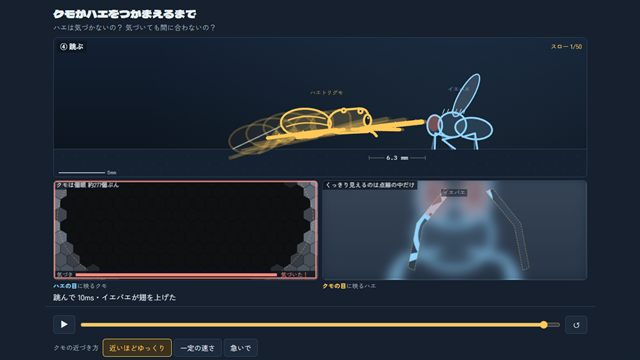
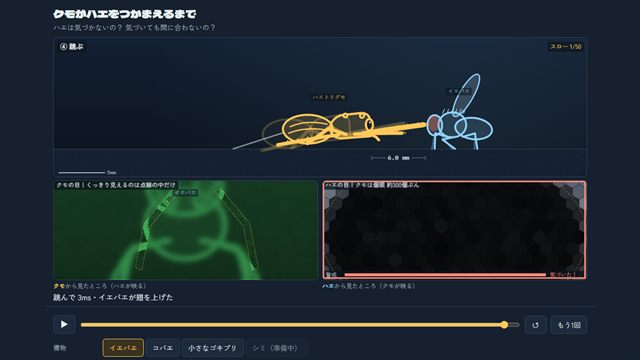
v006-trial spider-hunt: 踏み切り中も体を動かし、変化の始まりを獲物でそろえる。つかまえる確率は不確かさをふって400回、再生は1回の例（最初はつかまえた例・もう1回）。クモの目の数は別の種と明記、ゴキブリは幼虫の模様（批判役2回目）

diff --git a/spider-hunt/js/model.js b/spider-hunt/js/model.js
@@ -17,9 +17,24 @@ const DATA = {
     reach: 2,          // 跳ぶとき前脚を斜め前へ広げる（Dill 1975）。体の前のはしより前に届く長さ（目安）
     stride: 3,         // 歩幅（目安。体長の約1/3）
   },
-  // 跳躍。Phidippus regius（15mm）。Nabawy ほか 2018, Sci. Rep. 8:7142（2体長の跳躍の値）
-  jump: { v: 0.52 * 1000, prep: 0.0316 },
+  // 跳躍。Phidippus regius（15mm）。Nabawy ほか 2018, Sci. Rep. 8:7142（2体長の跳躍の値 0.52m/s）。
+  // 踏み切り＝脚で台を押して体を速めているあいだ（体は前へ進む）。押す距離（stroke）は論文に数がなく、速さと時間からの逆算（8〜9mm、
+  // P. regius 15mm）を体の大きさ 9mm に合わせて縮めた 5mm（推定）。一様に速めるとして、踏み切りの時間 = 2×stroke/v
+  jump: { v: 0.52 * 1000, stroke: 5 },
 };
+DATA.jump.prep = 2 * DATA.jump.stroke / DATA.jump.v;
+// 1回ごとにふる不確かさ。跳ぶ速さ・押す距離・前脚の届く長さは目安の幅、しきい値・遅れは論文の平均±SD
+const UNC = { v: [420, 620], stroke: [3, 7], reach: [1, 3] };
+function sampleParams(seed) {
+  let x = (seed * 2654435761) >>> 0 || 1;
+  const U = () => { x ^= x << 13; x >>>= 0; x ^= x >>> 17; x ^= x << 5; x >>>= 0; return (x % 1000003) / 1000003; };
+  const G = () => { const u = Math.max(1e-9, U()), v = U(); return Math.sqrt(-2 * Math.log(u)) * Math.cos(2 * Math.PI * v); };
+  const L = ([a, b]) => a + (b - a) * U();
+  const v = L(UNC.v), stroke = L(UNC.stroke);
+  return { v, stroke, tp: 2 * stroke / v, reach: L(UNC.reach),
+    wrDeg: 49 + 4 * G(), toDeg: 54 + 5 * G(), dly: Math.max(0, 0.006 + 0.011 * G()), lat: Math.max(0.015, 0.025 + 0.002 * G()),
+    latW: L([0.011, 0.058]), run: L([0.050, 0.075]) };
+}
 
 // 獲物（ハエトリグモが食べるもの）。足すときはここに1つ足し、spider-draw.js の drawPrey と、
 // 逃げのきっかけ（kind: 'vision' 目で見て／'wind' 空気の流れで）を決める。
@@ -30,7 +45,7 @@ const FLY_ESCAPE = {
   toDeg: 54,       // 飛び立つ見かけの大きさ（SD 5°）
   toDelay: 0.006,  // 54° から飛び立つ（脚が離れる）までの遅れ（SD 11ms）
   toSD: 0.011,
-  minLat: 0.025,   // いちばん速い反応: 刺激が始まってから飛び立つまで 25ms（SD 2ms。明かりを消したとき。同じ Fotowat 2009）
+  minLat: 0.025,   // いちばん速い反応: 刺激が始まってから飛び立つまで 25ms（SD 2ms）。明かりを消したときの値で、ふくらむ刺激でも同じとしたのは推定（同じ Fotowat 2009）
   minSD: 0.002,
   lvMin: 0.005, lvMax: 0.080, // 測った近づき方の範囲（l/|v| = 5〜80ms）
   rateTh: 0.3,     // ふくらむ速さのしきい値（Dill 1975 図4 の仮定。ハエで測った数ではない）
@@ -85,12 +100,12 @@ function stalkV(P, D) {
 }
 
 // 跳躍の放物線: 速さ v で、距離 R に届く低いほうの角度
-function jumpAngle(R) {
-  const g = 9810, s = g * R / (DATA.jump.v * DATA.jump.v);
+function jumpAngle(R, v = DATA.jump.v) {
+  const g = 9810, s = g * R / (v * v);
   return s >= 1 ? Math.PI / 4 : 0.5 * Math.asin(s);
 }
 
-function newState(P) {
+function newState(P, seed = 1) {
   const D0 = prey(P).len / 2 / Math.tan(DATA.spider.orientDeg / 2 * Math.PI / 180); // 獲物が 5.5° に見える距離（イエバエで約 73mm）
   return {
     t: 0, D: D0, D0, V: 0, h: 0,      // h: 跳んでいるときの高さ
@@ -99,6 +114,7 @@ function newState(P) {
     jump: null,
     ev: {},                           // できごとの時刻: stalk, pounce, contact, wr, to, toPlan（飛び立つ予定）, size49, size54, rate, wind
     th: 0, rate: 0, wind: 0, alert: 0, S: DATA.spider.S, lv: 0, outside: false,
+    seed, prm: sampleParams(seed),    // この1回の数
   };
 }
 
@@ -116,13 +132,16 @@ function step(st, P, dt) {
       st.V = stalkV(P, st.D);
       st.D -= st.V * dt;
       const pd = prey(P).pounceD;
-      if (st.D <= pd) { st.D = pd; st.sp = 'prep'; st.spT = 0; ev.pounce = st.t; st.V = 0; }
+      if (st.D <= pd) { st.D = pd; st.Dp = pd; st.sp = 'prep'; st.spT = 0; ev.pounce = st.t; st.V = 0; }
     }
   } else if (st.sp === 'prep') {
-    st.V = 0; st.spT += dt;
-    if (st.spT >= DATA.jump.prep) {
-      const a = jumpAngle(st.D);
-      st.jump = { a, R: st.D, vx: DATA.jump.v * Math.cos(a), vy: DATA.jump.v * Math.sin(a), t0: st.t, D0: st.D };
+    // 踏み切り: 脚で押して一様に速める（体は前へ進む）
+    const J = st.prm, acc = J.v * J.v / (2 * J.stroke);
+    st.spT += dt; const tau = Math.min(st.spT, J.tp);
+    st.D = st.Dp - 0.5 * acc * tau * tau; st.V = acc * tau;
+    if (st.spT >= J.tp) {
+      const a = jumpAngle(st.D, J.v);
+      st.jump = { a, R: st.D, vx: J.v * Math.cos(a), vy: J.v * Math.sin(a), t0: st.t, D0: st.D };
       st.sp = 'flight';
     }
   } else if (st.sp === 'flight') {
@@ -130,7 +149,7 @@ function step(st, P, dt) {
     st.V = j.vx;
     st.D = Math.max(0, j.D0 - j.vx * tau);
     st.h = Math.max(0, j.vy * tau - 0.5 * 9810 * tau * tau);
-    if (ev.reach == null && st.D <= sd.reach) ev.reach = st.t;                // 前脚が獲物にとどく
+    if (ev.reach == null && st.D <= st.prm.reach) ev.reach = st.t;                // 前脚が獲物にとどく
     if (st.D <= 0) { st.sp = 'contact'; st.V = 0; st.h = 0; ev.contact = st.t; }
   } else { st.V = 0; }
 
@@ -148,26 +167,26 @@ function step(st, P, dt) {
   const deg = st.th * 180 / Math.PI;
   if (es.kind === 'vision') {
     // 2つのモデルの「しきい値をこえた時刻」は、選んでいないほうも記録する
-    if (ev.size49 == null && deg >= es.wrDeg) ev.size49 = st.t;
-    if (ev.size54 == null && deg >= es.toDeg) { ev.size54 = st.t; ev.lv54 = st.lv; }
+    if (ev.size49 == null && deg >= st.prm.wrDeg) ev.size49 = st.t;
+    if (ev.size54 == null && deg >= st.prm.toDeg) { ev.size54 = st.t; ev.lv54 = st.lv; }
     if (ev.rate == null && st.rate >= es.rateTh) { ev.rate = st.t; ev.lvRate = st.lv; }
-    st.alert = P.model === 'size' ? deg / es.toDeg : st.rate / es.rateTh;   // 警戒度（しきい値で 1）
+    st.alert = P.model === 'size' ? deg / st.prm.toDeg : st.rate / es.rateTh;   // 警戒度（しきい値で 1）
     const trig = P.model === 'size' ? ev.size54 : ev.rate, wr = P.model === 'size' ? ev.size49 : ev.rate;
     if (wr != null && ev.wr == null && st.sp !== 'contact') { ev.wr = st.t; }
     if (trig != null && ev.toPlan == null) {
       // 体が反応できるいちばん早い時刻: 急な変化が始まった時刻（跳んでいるあいだに気づいたなら跳び始め）＋ 25ms
-      const onset = st.jump && trig >= st.jump.t0 ? st.jump.t0 : trig;
-      const fit = trig + es.toDelay, floor = onset + es.minLat;
-      ev.toPlan = Math.max(fit, floor); ev.floorBound = floor >= fit;
+      const onset = ev.pounce != null && trig >= ev.pounce ? ev.pounce : trig;   // 跳びはじめ（踏み切りの始まり）にそろえる
+      const fit = trig + st.prm.dly, floor = onset + st.prm.lat;
+      ev.toPlan = Math.max(fit, floor); ev.floorBound = floor >= fit; ev.trig = trig;
     }
   } else {
     if (ev.wind == null && st.acc >= es.accTh) ev.wind = st.t;
     st.alert = Math.min(2, st.acc / es.accTh);
-    if (ev.wind != null && ev.toPlan == null) { ev.wrPlan = ev.wind + es.latency; ev.toPlan = ev.wrPlan + es.run; }
+    if (ev.wind != null && ev.toPlan == null) { ev.trig = ev.wind; ev.wrPlan = ev.wind + st.prm.latW; ev.toPlan = ev.wrPlan + st.prm.run; }
     if (ev.wrPlan != null && ev.wr == null && st.t >= ev.wrPlan && st.sp !== 'contact') ev.wr = st.t;   // 体の向きを変えはじめる
   }
   // 獲物のふるまい（とどかれたあとは動かない）
-  if (st.fl !== 'air' && st.sp !== 'contact') {
+  if (st.fl !== 'air' && st.sp !== 'contact' && ev.reach == null) {
     if (ev.wr != null && st.fl === 'rest') st.fl = 'wing';
     if (ev.toPlan != null && st.t >= ev.toPlan) { st.fl = 'air'; ev.to = st.t; }
   }
@@ -181,30 +200,57 @@ function done(st) {
   return false;
 }
 
-// 正規分布の累積（つかまえる確率に使う）
+// 正規分布の累積（verify で使う）
 function phi(x) { const t = 1 / (1 + 0.3275911 * Math.abs(x) / Math.SQRT2), y = 1 - (((((1.061405429 * t - 1.453152027) * t) + 1.421413741) * t - 0.284496736) * t + 0.254829592) * t * Math.exp(-x * x / 2); return x >= 0 ? (1 + y) / 2 : (1 - y) / 2; }
-// 結果: p＝つかまえる確率（獲物が動く時刻のばらつき SD から。目安）。k: 'caught'（p ≥ 0.8）／'escaped'（p ≤ 0.2）／'close'／'early'（跳ぶ前に逃げた）
-// m＝前脚がとどく時刻 − 獲物が逃げる予定の時刻（正なら獲物が先）。逃げる時刻がいちばん速い反応で決まったときは、そのばらつき（2ms）を使う
-function verdict(st, P) {
-  const ev = st.ev, es = prey(P || {}).escape, sd = ev.floorBound ? es.minSD : es.toSD;
-  if (ev.to != null && ev.pounce == null) return { k: 'early', m: null, p: 0 };
-  if (ev.contact != null) {
-    if (ev.toPlan == null) return { k: 'caught', m: null, p: 1 };
-    const m = (ev.reach != null ? ev.reach : ev.contact) - ev.toPlan, p = phi(-m / sd);
-    return { k: p >= 0.8 ? 'caught' : p <= 0.2 ? 'escaped' : 'close', m, p };
+
+// 跳躍の勝負を、不確かな数をふって何度も計算する（N 回）。返り値は つかまえた割合 と、とどく・逃げる時刻の中央値（跳びはじめから）
+function race(P, st, N = 400) {
+  const pr = prey(P), es = pr.escape, sd = DATA.spider, ev = st.ev;
+  const pre = es.kind === 'vision' && ev.trig != null && ev.trig < ev.pounce; // 跳ぶ前にもう気づいていた
+  let caught = 0;
+  for (let n = 0; n < N; n++) {
+    const q = sampleParams(1000 + n), acc = q.v * q.v / (2 * q.stroke), Sj = P.crouch ? sd.crouchS : sd.S;
+    let tTo = Infinity, tCon = Infinity;
+    if (es.kind === 'wind') tTo = q.latW + q.run;
+    else if (pre) tTo = Math.max(ev.trig - ev.pounce + q.dly, ev.trig - ev.pounce + q.lat);
+    let trig = null;
+    for (let t = 0; t < 0.2; t += 0.0002) {
+      let D, V, S;
+      if (t < q.tp) { D = pr.pounceD - 0.5 * acc * t * t; V = acc * t; S = Sj; }
+      else { D = pr.pounceD - q.stroke - q.v * (t - q.tp); V = q.v; S = sd.S; }
+      if (D <= q.reach) { tCon = t; break; }
+      if (es.kind === 'vision' && !pre && trig == null) {
+        const hit = P.model === 'size' ? angSize(S, D) * 180 / Math.PI >= q.toDeg : angRate(S, D, V) >= es.rateTh;
+        if (hit) { trig = t; tTo = Math.max(t + q.dly, q.lat); }
+      }
+    }
+    if (tCon < tTo) caught++;
   }
-  if (ev.to != null && st.sp === 'stop') return { k: 'escaped', m: null, p: 0 };
-  return null;
+  return { p: caught / N };
+}
+
+// 結果: k＝この1回の結果（'caught'／'escaped'／'early' 跳ぶ前に逃げた）、p＝何度もくり返したときに、つかまえる割合
+// m＝前脚がとどく時刻 − 逃げはじめた時刻（この1回。正なら獲物が先）
+function verdict(st, P) {
+  const ev = st.ev;
+  if (ev.to != null && ev.pounce == null) return { k: 'early', m: null, p: 0 };
+  if (ev.pounce == null) return null;
+  const key = JSON.stringify(P);
+  if (!st._race || st._raceKey !== key) { st._race = race(P, st); st._raceKey = key; }
+  const p = st._race.p;
+  if (ev.reach != null && (ev.to == null || ev.reach < ev.to)) return { k: 'caught', m: ev.to != null ? ev.reach - ev.to : null, p };
+  if (ev.to != null) return { k: 'escaped', m: ev.reach != null ? ev.reach - ev.to : null, p };
+  return { k: null, m: null, p, pending: true };
 }
 
 // 最後まで計算する（verify 用）
-function run(P, dt = 0.0005, tMax = 30) {
-  const st = newState(P);
+function run(P, dt = 0.0005, tMax = 30, seed = 1) {
+  const st = newState(P, seed);
   while (!done(st) && st.t < tMax) step(st, P, dt);
   return st;
 }
 
-const API = { DATA, PREY, prey, phi, angSize, angRate, stalkV, jumpAngle, newState, step, done, verdict, run, V26 };
+const API = { DATA, PREY, prey, phi, race, UNC, sampleParams, angSize, angRate, stalkV, jumpAngle, newState, step, done, verdict, run, V26 };
 if (typeof module !== 'undefined' && module.exports) module.exports = API;
 else root.M = API;
 })(typeof window !== 'undefined' ? window : globalThis);

diff --git a/spider-hunt/index.html b/spider-hunt/index.html
@@ -26,6 +26,7 @@
       <button id="play" aria-label="再生・一時停止">▶</button>
       <input id="tl" type="range" min="0" max="1000" value="0" aria-label="時間">
       <button id="restart" aria-label="はじめから">↺</button>
+      <button id="again" title="ばらつきの中から別の1回">もう1回</button>
     </div>
     <div class="row">
       <span class="lab">獲物</span>
@@ -63,12 +64,12 @@
   <section id="explain">
     <h2>わかること</h2>
     <ul>
-      <li><b>気づいても、間に合わない。</b>クモの跳躍は、踏み切りから約55msでとどきます。空中にいるのは約23ms。測られているいちばん速い反応でも、ハエ（ショウジョウバエ）が刺激から飛び立つまでに約25msかかります（明かりを消したとき）。跳んだ瞬間に気づいても、脚が台を離れるころには、クモの前脚がとどいています。</li>
+      <li><b>最後は、数ミリ秒の勝負。</b>クモは脚で台を押して体を速め（約20ms）、跳んで、約25〜30msで前脚がとどきます。ハエの反応は、測られているいちばん速いもので、刺激から飛び立つまで約25ms（ショウジョウバエ。明かりを消したとき）。ほぼ同じ速さです。跳ぶ速さや反応のばらつきをふって何百回も計算すると、初期設定では半分ほどつかまえます。</li>
       <li><b>忍び寄りのあいだに気づかれないことが大事。</b>クモは近いほどゆっくり進みます。「大きく見えたら」のしくみでは、跳ぶ距離でもクモはしきい値（54°）より小さく見えたままです。「急にふくらんだら」のしくみでは、一定の速さや急いで近づくと、跳ぶ前に気づかれて逃げられます（どちらも借りた数での推定。忍び寄りの遅さは測った範囲の外です）。</li>
       <li><b>見え方がまるでちがう。</b>ハエにはクモが数個の個眼のかげ。クモは前の大きな目で形まで見分けます。ただし、せまいブーメラン形の視野だけ。色は緑と紫外線の明るさだけで、赤は見えません。</li>
-      <li><b>獲物しだい。</b>コバエは小さいぶん、クモは少し遠く（約15mm）から跳びます。そのため、間に合うかどうかは五分五分になります。ゴキブリは目ではなく尾の毛で空気の動きを感じます。ただ、向きを変えてから走り出すまでが遅く（50ms以上）、間に合いません。</li>
+      <li><b>獲物しだい。</b>コバエは小さいぶん、クモは少し遠く（約15mm）から跳ぶので、逃げられやすくなります。ゴキブリは目ではなく尾の毛で空気の動きを感じます。ただ、向きを変えてから走り出すまでが遅く（50ms以上）、間に合いません。</li>
     </ul>
-    <p class="note">「つかまえる確率」は、逃げる時刻の測ったばらつきから出した目安です。暗さは「見え方」だけを変えます（暗いと反応が遅くなるかは、測った数が見つからないので入れていません。ハエトリグモは昼に狩りをするクモです）。</p>
+    <p class="note">再生は「1回の例」です（最初はつかまえた例）。「もう1回」で、ばらつきの中から別の1回になります。「つかまえる割合」は、跳ぶ速さ（0.42〜0.62m/s）・押す距離（3〜7mm）・前脚の届く長さ（1〜3mm）を目安の幅でふり、しきい値と反応の遅れを論文の平均±ばらつきでふって、400回計算した割合です。暗さは「見え方」だけを変えます（暗いと反応が遅くなるかは、測った数が見つからないので入れていません。ハエトリグモは昼に狩りをするクモです）。</p>
   </section>
 
   <details id="graphBox" open>
@@ -83,11 +84,12 @@
     <ul>
       <li>クモは獲物にまっすぐ近づきます。距離は「クモの前のはしから、獲物の頭（目）まで」。クモの前脚は体の前のはしより約2mm先までとどくとしました（目安）。</li>
       <li>ハエの逃げのしきい値と遅れは<b>ショウジョウバエ</b>の測定を借りています（イエバエの数は見つかりませんでした）。研究で使われた近づき方（l/|v| = 5〜80ms）より、忍び寄るクモはずっとゆっくりなので、そのあいだは推定です。</li>
-      <li>「つかまえた・逃げた」は、獲物が逃げはじめる時刻（飛び立つ・走り出す）と、クモの前脚がとどく時刻をくらべて決めています。逃げる時刻は「しきい値をこえて6ms後（Fotowat の式）」と「急な変化が始まってから25ms後（いちばん速い反応）」の遅いほう。飛び立ったあとの動きは見た目だけです。</li>
-      <li>ゴキブリ: 逃げのきっかけは空気の急な加速（二次資料の数）で、体を押し出す踏み切りで起きるとしました。ゆっくり一定の忍び寄りでは起きない（推定）。動き出すまで58ms、向きを変えてから走るまで50ms（Camhi ほか 1978、大きなワモンゴキブリの成虫の数を借りた）。もっと短い反応（11ms）という二次資料もありますが、それでも走り出しは間に合いません。</li>
+      <li>「つかまえた・逃げた」は、獲物が逃げはじめる時刻（飛び立つ・走り出す）と、クモの前脚がとどく時刻をくらべて決めています。逃げる時刻は「しきい値をこえて6ms後（Fotowat の式）」と「急な変化が始まってから25ms後（いちばん速い反応。明かりを消したときの数を、ふくらむ刺激にも使ったのは推定）」の遅いほう。飛び立ったあとの動きは見た目だけです。</li>
+      <li>ゴキブリ: 逃げのきっかけは空気の急な加速（二次資料の数）で、体を押し出す踏み切りで起きるとしました。ゆっくり一定の忍び寄りでは起きない（推定）。空気の動きを数えるのは獲物から20mm以内（目安）。動き出すまで58ms、向きを変えてから走るまで50ms（Camhi ほか 1978、大きなワモンゴキブリの成虫の数を借りた）。もっと短い反応（11ms）という二次資料もありますが、それでも走り出しは間に合いません。</li>
       <li>暗さ: 光の粒の数のゆらぎ（√N）で視界をざらつかせています。昼の窓辺で1回に受ける光の粒の数（ハエの個眼1万、クモの前の大きな目1千）は目安です。</li>
-      <li>跳躍の数は別の種（<i>Phidippus regius</i>）のもの。踏み切りのあいだは止まっているとしました。</li>
+      <li>跳躍の数は別の種（<i>Phidippus regius</i>）のもの。踏み切りは、脚で台を押して体を一様に速めるあいだ（体は前へ進む）。押す距離は論文の速さと時間からの逆算（8〜9mm）を体の大きさに合わせて縮めた推定（5mm）です。ハエが気づく「急な変化の始まり」は踏み切りの始まりとしました。</li>
       <li>クモの動き: 振り向く・忍び寄る・後半で体をふせる・命綱をつける・前脚を上げて後ろの脚で押す・前脚を斜め前に広げて跳ぶ、は研究の記述どおり。脚の運び・歩幅・振り向く時間・体をふせたときの大きさ（4.5mm）は目安です。進む速さはなめらかにしていて、実際のちょこちょこした止まり方は入れていません（測った数が見つからないため）。</li>
+      <li>クモの目: 前の大きな目の視野（横5°×縦20°）は別の種（<i>Metaphidippus</i>）の数、くっきり見える細かさは <i>Portia</i> などの数で、ゼブラハエトリの数ではありません。色は緑の明るさだけで表しています（紫外線は画面で表せない。緑の重みは目安）。横の目のぼけ（約1°）も目安です。</li>
       <li>2つの視界はどちらも横 60° の広さ。ハエの個眼の間隔（3°）、クモの横の目のぼけ、前の大きな目の視野を動かす速さ、部屋の模様は目安です。来る向きは見え方だけを変えます。</li>
       <li>※ 目印: 個眼のふち、名前と点線の輪郭、ブーメラン形の点線、しきい値の線、距離の線、残像は、本物には見えません。</li>
     </ul>

diff --git a/spider-hunt/js/main.js b/spider-hunt/js/main.js
@@ -6,11 +6,12 @@ window.addEventListener('error', e => window.__sphuErr.push(String(e.message)));
 const $ = id => document.getElementById(id);
 const DT = 0.0005;                  // 計算の刻み（0.5ms）
 const P = { speed: 'dill', model: 'size', crouch: true, dir: 0, fastV: 30, prey: 'housefly', lux: 300, look: 'simple' };
-const S = { st: null, hist: [], view: 0, playing: true, rate: 'auto', camR: 95, rims: true, guide: true, paused: false };
+const S = { st: null, hist: [], view: 0, playing: true, rate: 'auto', camR: 95, rims: true, guide: true, paused: false, seed: 1 };
+// 1回目は「つかまえた例」を見せる: 初期設定でつかまえる1回目の数の組（ばらつきの中の本物の1回）。2回目からは「もう1回」で別の組
 SD.setP(P);
 
 const snap = st => Object.assign({}, st, { ev: Object.assign({}, st.ev), jump: st.jump && Object.assign({}, st.jump) });
-function reset() { S.st = M.newState(P); S.hist = [snap(S.st)]; S.view = 0; S.playing = true; S.camR = 95; }
+function reset() { S.st = M.newState(P, S.seed); S.hist = [snap(S.st)]; S.view = 0; S.playing = true; S.camR = 95; }
 // とちゅうで条件を変えたら、いま見ている時刻から先を計算しなおす
 function changed() {
   S.hist.length = S.view + 1; S.st = snap(S.hist[S.view]);
@@ -44,17 +45,17 @@ function fit(c, g) {
 }
 function status(s) {
   const pr = M.prey(P), vd = M.verdict(s, P), nm = pr.short || pr.name, roach = pr.draw === 'roach';
-  const go = roach ? '走り出した' : '飛び立った', pct = vd && vd.p != null ? `<small>（つかまえる確率 約${Math.round(vd.p * 100)}%）</small>` : '';
-  if (vd && M.done(s)) {
+  const go = roach ? '走り出した' : '飛び立った', ex = S.seed === 1 ? 'この1回（つかまえた例）' : 'この1回';
+  const pct = vd && vd.p != null && vd.k !== 'early' ? `<small>　何百回くり返すと、つかまえるのは 約${Math.round(vd.p * 100)}%</small>` : '';
+  if (vd && vd.k && M.done(s)) {
     if (vd.k === 'early') return `<b class="escaped">${nm}が先に気づいて逃げた</b><small>（クモが跳ぶ前。あと ${s.D.toFixed(1)}mm）</small>`;
-    const m = vd.m != null ? Math.abs(vd.m * 1000).toFixed(0) : '';
-    if (vd.k === 'close') return `<b class="close">きわどい</b>: ${nm}が逃げはじめるのと、ほぼ同時に前脚がとどく（差 ${m}ms）${pct}`;
-    if (vd.k === 'escaped') return `<b class="escaped">逃げた</b>: クモがとどく ${m}ms 前に${go}${pct}`;
-    return `<b class="caught">つかまえた</b>${vd.m != null ? `: ${nm}が${roach ? '走り出す' : '飛び立つ'} ${m}ms 前にとどいた` : ''}${pct}`;
+    const m = vd.m != null ? Math.abs(vd.m * 1000).toFixed(0) : null;
+    if (vd.k === 'escaped') return `${ex}: <b class="escaped">逃げた</b>（前脚がとどく ${m}ms 前に${go}）${pct}`;
+    return `${ex}: <b class="caught">つかまえた</b>${m ? `（${nm}が${roach ? '走り出す' : '飛び立つ'} ${m}ms 前に前脚がとどいた）` : `（${nm}は間に合わなかった）`}${pct}`;
   }
   if (s.sp === 'turn') return `クモが${nm}を見つけた<small>（${nm}が 5.5° に見える距離 ${s.D.toFixed(0)}mm）</small>`;
   if (s.sp === 'stalk') return `${nm}は${s.fl === 'rest' ? 'まだ気づかない' : '気づいた'}<small>（クモ ${s.V.toFixed(1)}mm/s${s.outside ? '・測った範囲の外なので推定' : ''}）</small>`;
-  if (s.sp === 'prep') return `踏み切り ${(s.spT * 1000).toFixed(0)} / ${(M.DATA.jump.prep * 1000).toFixed(0)}ms` + (s.fl !== 'rest' ? `・${nm}が気づいた` : `・${nm}はまだ`);
+  if (s.sp === 'prep') return `踏み切り（脚で押して速める）${(s.spT * 1000).toFixed(0)} / ${(s.prm.tp * 1000).toFixed(0)}ms` + (s.fl !== 'rest' ? `・${nm}が気づいた` : `・${nm}はまだ`);
   if (s.sp === 'flight') return `跳んで ${((s.t - s.jump.t0) * 1000).toFixed(0)}ms` + (s.fl === 'air' ? `・${nm}は${go}` : s.fl === 'wing' ? `・${nm}が${roach ? '向きを変えた' : '翅を上げた'}` : `・${nm}はまだ`);
   if (s.sp === 'contact') return 'クモがとどいた' + (s.fl === 'air' ? `<small>（${nm}はもう${go}）</small>` : '');
   if (s.sp === 'stop') return `${nm}が${go}ので、クモは止まった`;
@@ -103,6 +104,7 @@ $('rims').addEventListener('change', e => { S.rims = e.target.checked; });
 $('guide').addEventListener('change', e => { S.guide = e.target.checked; });
 $('play').addEventListener('click', () => { if (!S.playing && M.done(S.hist[S.view]) && S.view === S.hist.length - 1) reset(); else S.playing = !S.playing; });
 $('restart').addEventListener('click', reset);
+$('again').addEventListener('click', () => { S.seed = 1 + Math.floor(Math.random() * 1e6); reset(); });
 $('tl').addEventListener('input', e => { S.view = +e.target.value; S.playing = false; });
 
 reset(); requestAnimationFrame(loop);

diff --git a/spider-hunt/js/spider-draw.js b/spider-hunt/js/spider-draw.js
@@ -14,7 +14,7 @@ function ik(hx, hy, fx, fy, a, b, up) {
   return [hx + a * Math.cos(ang + s * c), hy + a * Math.sin(ang + s * c)];
 }
 // 見た目がリアルなとき（P.look === 'real'）の色。ゼブラハエトリ（黒地に白い毛のしま）、イエバエ（灰色の胸に黒いすじ・赤茶の複眼）、
-// チャバネゴキブリ（茶色・前胸に2本の黒いすじ）の図鑑の色の目安。形と動きはかんたん表示と同じ骨組みを使う
+// チャバネゴキブリの若い幼虫（黒っぽい地に、背中の真ん中の明るい1本のすじ）の図鑑の色の目安。形と動きはかんたん表示と同じ骨組みを使う
 const real = () => !!(P_ && P_.look === 'real');
 const RC = { sp: '#141414', spFar: '#2c2c2c', white: 'rgba(238,236,226,.92)', flyLeg: '#1a1a1a', roachDark: '#3b2412' };
 function grad(g, x, y, r, c0, c1) { const gr = g.createRadialGradient(x, y, 0, x, y, r); gr.addColorStop(0, c0); gr.addColorStop(1, c1); return gr; }
@@ -36,10 +36,10 @@ function spiderPose(s, P, t) {
   const low = P.crouch ? smooth(sd.crouchBelow, sd.crouchBelow - 6, s.D) : 0;
   let y0 = 1.7 - 0.9 * low;                         // 頭胸部の下の高さ
   if (s.sp === 'stalk') y0 += 0.07 * Math.sin(gaitP * Math.PI * 4);
-  if (s.sp === 'prep') y0 = 0.55 + 0.5 * (1 - smooth(0, 0.6, s.spT / M.DATA.jump.prep)) * (1 - low);
+  if (s.sp === 'prep') y0 = 0.55 + 0.5 * (1 - smooth(0, 0.6, s.spT / (s.prm ? s.prm.tp : M.DATA.jump.prep))) * (1 - low);
   let pitch = 0;
   if (s.sp === 'flight' && s.jump) { const tau = s.t - s.jump.t0, vy = s.jump.vy - 9810 * tau; pitch = Math.atan2(vy, s.jump.vx) * 0.8; y0 = 1.0; }
-  return { y0, gaitP, low, pitch, prepK: s.sp === 'prep' ? smooth(0, 1, s.spT / M.DATA.jump.prep) : s.sp === 'flight' || s.sp === 'contact' ? 1 : 0 };
+  return { y0, gaitP, low, pitch, prepK: s.sp === 'prep' ? smooth(0, 1, s.spT / (s.prm ? s.prm.tp : M.DATA.jump.prep)) : s.sp === 'flight' || s.sp === 'contact' ? 1 : 0 };
 }
 
 function footFor(i, far, s, pose) {
@@ -234,15 +234,15 @@ function drawRoach(g, cx, gy, k, face, s, opt = {}) {
     }
   };
   legs(true);
-  g.fillStyle = R ? grad(g, 0, y0 + 1.3, L * 0.6, '#b7834c', '#4a2c14') : COL.flyFill; g.strokeStyle = R ? '#2a1708' : COL.fly; g.lineWidth = 0.16;
+  g.fillStyle = R ? grad(g, 0, y0 + 1.3, L * 0.6, '#4a3424', '#120a05') : COL.flyFill; g.strokeStyle = R ? '#2a1708' : COL.fly; g.lineWidth = 0.16;
   g.beginPath(); g.moveTo(-L / 2, y0 + 0.4); g.quadraticCurveTo(-L / 2 + 0.3, y0 + 1.4, 0, y0 + 1.25); g.quadraticCurveTo(L / 2 - 1.0, y0 + 1.2, L / 2 - 0.8, y0 + 0.5); g.lineTo(-L / 2, y0 + 0.2); g.closePath(); g.fill(); g.stroke(); // 胴（平たい）
   if (!opt.ghost) { g.lineWidth = 0.07; for (let q = -L / 2 + 0.8; q < L / 2 - 1.5; q += 0.6) { g.beginPath(); g.moveTo(q, y0 + 0.3); g.lineTo(q + 0.15, y0 + 1.25); g.stroke(); } }  // 体節
-  g.lineWidth = 0.16; if (R) g.fillStyle = grad(g, L / 2 - 1.1, y0 + 1.2, 1.2, '#c9965c', '#6a4220');
+  g.lineWidth = 0.16; if (R) g.fillStyle = grad(g, L / 2 - 1.1, y0 + 1.2, 1.2, '#5a4030', '#1a0f07');
   g.beginPath(); g.ellipse(L / 2 - 1.1, y0 + 0.95, 1.0, 0.45, -0.15, 0, 7); g.fill(); g.stroke();  // 前胸の盾
-  if (R && !opt.ghost) {   // 前胸の2本の黒いすじと、背中のつや
-    g.strokeStyle = RC.roachDark; g.lineWidth = 0.14; for (const dy of [0.85, 1.15]) { g.beginPath(); g.moveTo(L / 2 - 1.8, y0 + dy); g.lineTo(L / 2 - 0.4, y0 + dy - 0.15); g.stroke(); }
-    g.fillStyle = 'rgba(255,240,210,.22)'; g.beginPath(); g.ellipse(-0.6, y0 + 1.15, 1.6, 0.18, -0.05, 0, 7); g.fill();
-    g.strokeStyle = '#2a1708'; g.lineWidth = 0.16; g.fillStyle = grad(g, L / 2 - 1.1, y0 + 1.2, 1.2, '#c9965c', '#6a4220');
+  if (R && !opt.ghost) {   // 背中の真ん中の明るいすじ（横からは上のふちに見える）と、つや
+    g.strokeStyle = 'rgba(214,190,140,.85)'; g.lineWidth = 0.22; g.beginPath(); g.moveTo(-L / 2 + 0.4, y0 + 1.15); g.quadraticCurveTo(0, y0 + 1.42, L / 2 - 0.5, y0 + 1.3); g.stroke();
+    g.fillStyle = 'rgba(255,240,210,.12)'; g.beginPath(); g.ellipse(-0.6, y0 + 1.0, 1.6, 0.15, -0.05, 0, 7); g.fill();
+    g.strokeStyle = '#2a1708'; g.lineWidth = 0.16;
   }
   g.beginPath(); g.ellipse(L / 2 - 0.45, y0 + 0.35, 0.45, 0.4, 0.3, 0, 7); g.fill(); g.stroke();                         // 頭（盾の下）
   // 触角（ゆれる）と尾角

diff --git a/spider-hunt/js/views.js b/spider-hunt/js/views.js
@@ -121,10 +121,10 @@ function spider(g, w, h, s, P, opt) {
     d[i] = L * 0.35; d[i + 1] = L; d[i + 2] = L * 0.5;
   }
   oc.putImageData(img, 0, 0);
-  // 横の目: ぼんやり（2° ほどぼかす。目安）
-  g.save(); g.filter = `blur(${Math.max(1.5, 2 * kx * 0.6)}px)`; g.drawImage(off, 0, 0, w, h); g.filter = 'none'; g.restore();
+  // 横の目: ぼんやり（受容体の間隔 約1° とする記述が多い。目安）
+  g.save(); g.filter = `blur(${Math.max(1, 1 * kx * 0.6)}px)`; g.drawImage(off, 0, 0, w, h); g.filter = 'none'; g.restore();
   g.fillStyle = 'rgba(14,22,32,.18)'; g.fillRect(0, 0, w, h);
-  // 前の大きな目: ブーメラン形（横 5°×縦 20°、Metaphidippus）を2つ。輪郭をなぞるように動かす（速さは目安）
+  // 前の大きな目: ブーメラン形を左右の目で1つずつ。大きさ 横 5°×縦 20° は別の種（Metaphidippus）の数。輪郭をなぞるように動かす（速さは目安）
   const scanAmp = Math.min(25, Math.atan(pr.len / 2 / Dist) * R2D * 0.8), t = s.t;
   const fields = s.sp === 'turn' ? [[0, 0, 1], [0, 0, -1]] :
     [[yawDeg + scanAmp * Math.sin(2 * Math.PI * 0.7 * t), 0.45 * Math.sin(2 * Math.PI * 0.3 * t), 1],

diff --git a/spider-hunt/tools/verify.js b/spider-hunt/tools/verify.js
@@ -31,7 +31,7 @@ for (const prey of ['housefly', 'drosophila', 'roach']) for (const speed of ['di
   const s2 = M.newState(P); let dWr = null;
   while (!M.done(s2) && s2.t < 30) { M.step(s2, P, 0.0005); if (dWr == null && s2.ev.wr != null) dWr = s2.D; }
   const ev = s2.ev, vd = M.verdict(s2, P), t0 = ev.pounce;
-  console.log(`${prey.padEnd(11)} ${speed.padEnd(6)} ${(prey === 'roach' ? 'wind' : model).padEnd(5)} | ${dWr == null ? '   —   ' : (dWr.toFixed(1) + 'mm').padStart(7)}  ${fmt(ev.toPlan != null && t0 != null ? ev.toPlan - t0 : null)}  ${fmt(ev.contact != null ? ev.contact - t0 : null)}  ${vd ? vd.k + ' p=' + vd.p.toFixed(2) : '—'}`);
+  console.log(`${prey.padEnd(11)} ${speed.padEnd(6)} ${(prey === 'roach' ? 'wind' : model).padEnd(5)} | ${dWr == null ? '   —   ' : (dWr.toFixed(1) + 'mm').padStart(7)}  ${fmt(ev.toPlan != null && t0 != null ? ev.toPlan - t0 : null)}  ${fmt(ev.contact != null ? ev.contact - t0 : null)}  ${vd ? (vd.k || '?') + ' p=' + vd.p.toFixed(2) : '—'}`);
 }
 console.log('（時刻は跳びつき（踏み切りの始まり）から）');
 

diff --git a/spider-hunt/DEVNOTES.md b/spider-hunt/DEVNOTES.md
@@ -2,7 +2,7 @@
 
 ## 別セッションで続けるとき（まずここ）
 - いまの状態: v003-look（段階A の見た目と UI の作り直し）。保管庫（archive.html）に掲載。入口には載せない（RULES 8.1）。
-- 次にやること: 批判役の2回目の指摘を入れる。シミは逃げの研究が見つかったら。網のクモ・カニグモは段階B。
+- 次にやること: ぼけで距離を知るしくみ（主眼の4層網膜）を見せるか相談。シミは逃げの研究が見つかったら。model.js・spider-draw.js が 250行をこえたので、次に大きく足すなら分ける（800行の手前）。網のクモ・カニグモは段階B。
 - 読む順: PLAN.md → このファイルの「ファイル構成」→ 関係するファイルだけ。
 - 動かし方: サーバー apps（.claude/launch.json）で http://localhost:8765/spider-hunt/ 。デバッグ用の窓口 `window.__sphu`（`simRun(秒)`・`toEnd()`・`at(秒)`・`set({speed,model,dir,crouch})`・`S`・`P`）、エラーは `window.__sphuErr`。
 - 計算の確かめ: `node spider-hunt/tools/verify.js`（Dill 1975 図4 の再現・跳躍の放物線・6通りの結果の一覧）。
@@ -73,3 +73,6 @@
   - **直さなかったこと**: シミの「準備中」は隠さない（ユーザーが選びたいと言っている）。来る向き・かがむは結果にほぼ効かない（測った数がない）→ たたんだ設定のまま。ハエの視細胞が暗いと遅くなる効果は数がないので入れない（画面に書いた）。
   - 結果（verify.js）: イエバエ＝初期設定でつかまえる（100%）、「急にふくらんだら」＋一定の速さ・急いで＝跳ぶ前に逃げる。コバエ＝五分五分。ゴキブリ＝つかまえる。
 - 2026-10-22 v005-real: 見た目「リアル」の切りかえ（くわしい設定。初期はかんたん。虫が苦手な人のため）。骨組み・動きはかんたん表示と同じで、spider-draw.js の `real()` の分岐で色・毛・つや・翅脈を足す（ゼブラハエトリの白い毛のしま、イエバエの灰色の胸の黒いすじと赤茶の複眼、チャバネゴキブリの前胸の2本の黒いすじ。色は図鑑の目安）。台は木、壁はベージュ。ゴキブリの帯は風を感じたら『風を感じた』。
+- 2026-10-22 v006-trial: 批判役の2回目で直した。①踏み切り（Nabawy の take-off）は脚で押して体を速めている時間で、体は前へ進む → 一様に速める（押す距離は論文の速さ・時間からの逆算 8〜9mm を体の大きさで縮めた 5mm、推定）。ハエが気づく「急な変化の始まり」は、どの獲物でも踏み切りの始まりにそろえた。②つかまえる確率は、跳ぶ速さ 0.42〜0.62m/s・押す距離 3〜7mm・前脚の届く 1〜3mm（目安の幅）、しきい値 54±5°・遅れ 6±11ms・いちばん速い反応 25±2ms（論文）を `sampleParams(seed)` でふって `race()` で 400回。再生は「1回の例」（`S.seed`。最初の1回 seed=1 は初期設定でつかまえる例。ユーザーの「捕まえる設定をデフォルトに」への正直な答え）、「もう1回」で別の seed。設定を変えても seed は同じ。③クモの目の数は別の種と画面に、横の目のぼけ 1°。④リアル表示のゴキブリを若い幼虫の模様（黒っぽい地に背中の明るい1本すじ）に。
+  - 結果: イエバエ 初期 約56%（大きく見えたら）、急にふくらんだら＋ゆっくり 約26%、＋一定・急いで は跳ぶ前に逃げる。コバエ 約36%／約1%。ゴキブリ 100%。1回ずつの再生 200回と確率の計算が一致（57%／56%）。
+  - あとで: ぼけで距離を知るしくみ（主眼の4層網膜。Nagata 2012）の見せ方。
